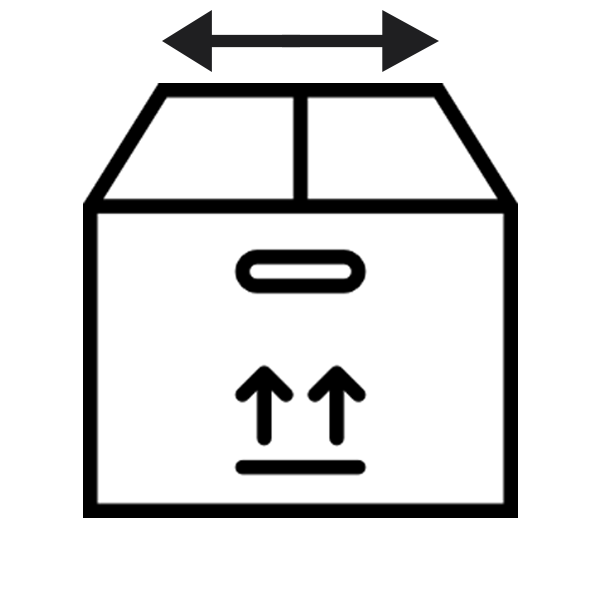
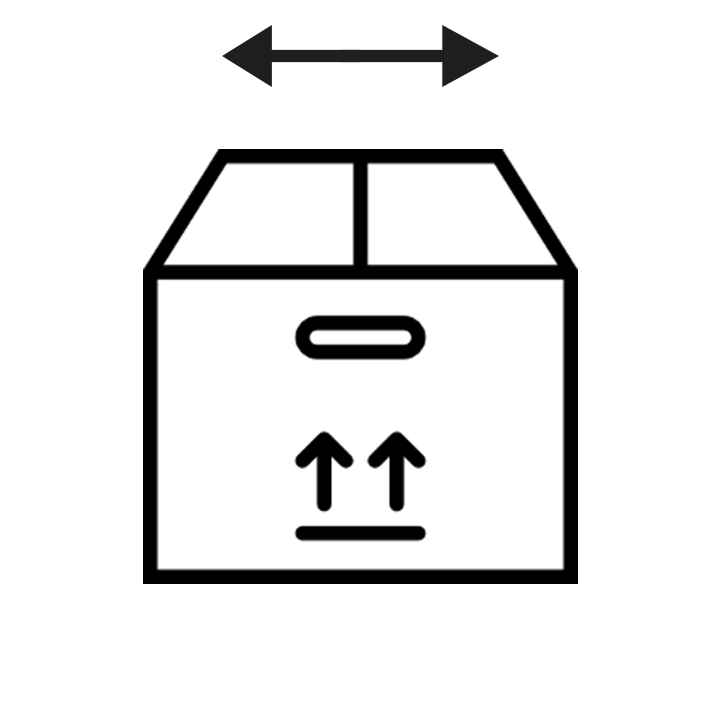
css: truck box

Changed region(s): [[0.12, 0.0, 0.87, 0.87]]

diff --git a/app/lg-loader/tmpl/loader-create.html b/app/lg-loader/tmpl/loader-create.html
@@ -65,17 +65,17 @@
 		<label>Dimensions en mètre</label>
 		<dimension>
 			<div class="no-zoom">
-				<img src="img/box-hauteur.png" />
+				<img class="box" src="img/box-hauteur.png" />
 				<p>Hauteur</p>
 				<input type="num" placeholder="H." vertical ng-model="$ctrl.loader.createData.height" options="{format: 2, step: 0.1}" />
 			</div>
 			<div class="no-zoom">
-				<img src="img/box-profondeur.png" />
+				<img class="box" src="img/box-profondeur.png" />
 				<p>Profondeur</p>
 				<input type="num" placeholder="P." vertical ng-model="$ctrl.loader.createData.deep" options="{format: 2, step: 0.1}" />
 			</div>
 			<div class="no-zoom">
-				<img src="img/box-largeur.png" />
+				<img class="box" src="img/box-largeur.png" />
 				<p>Largeur</p>
 				<input type="num" placeholder="L." vertical ng-model="$ctrl.loader.createData.width" options="{format: 2, step: 0.1}" />
 			</div>

diff --git a/app/lg-carrier/tmpl/carrier-create.html b/app/lg-carrier/tmpl/carrier-create.html
@@ -49,17 +49,17 @@
 		<carrier-dim>
 			<dimension>
 				<div>
-					<img src="img/hauteur.png" />
+					<img class="truck" src="img/hauteur.png" />
 					<p>Hauteur</p>
 					<input type="num" placeholder="H." vertical ng-model="$ctrl.carrier.createData.height" options="{format: 2, step: 0.1}" />
 				</div>
 				<div>
-					<img src="img/profondeur.png" />
+					<img class="truck" src="img/profondeur.png" />
 					<p>Profondeur</p>
 					<input type="num" placeholder="P." vertical ng-model="$ctrl.carrier.createData.deep" options="{format: 2, step: 0.1}" />
 				</div>
 				<div>
-					<img src="img/largeur.png" />
+					<img class="truck" src="img/largeur.png" />
 					<p>Largeur</p>
 					<input type="num" placeholder="L." vertical ng-model="$ctrl.carrier.createData.width" options="{format: 2, step: 0.1}" />
 				</div>

diff --git a/app/lg-truck/tmpl/truck-create.html b/app/lg-truck/tmpl/truck-create.html
@@ -50,17 +50,17 @@
 		<truck-dim>
 			<dimension>
 				<div>
-					<img src="img/hauteur.png" />
+					<img class="truck" src="img/hauteur.png" />
 					<p>Hauteur</p>
 					<input type="num" placeholder="H." vertical ng-model="$ctrl.truck.createData.height" options="{format: 2, step: 0.1}" />
 				</div>
 				<div>
-					<img src="img/profondeur.png" />
+					<img class="truck" src="img/profondeur.png" />
 					<p>Profondeur</p>
 					<input type="num" placeholder="P." vertical ng-model="$ctrl.truck.createData.deep" options="{format: 2, step: 0.1}" />
 				</div>
 				<div>
-					<img src="img/largeur.png" />
+					<img class="truck" src="img/largeur.png" />
 					<p>Largeur</p>
 					<input type="num" placeholder="L." vertical ng-model="$ctrl.truck.createData.width" options="{format: 2, step: 0.1}" />
 				</div>

diff --git a/app/css/lg-ad.scss b/app/css/lg-ad.scss
@@ -53,6 +53,11 @@
                 text-align: center;
                 img {
                     display: inline-block;
+                }
+                img.box {
+                    width: 90px;
+                }
+                img.truck {
                     width: 70px;
                 }
                 p {
